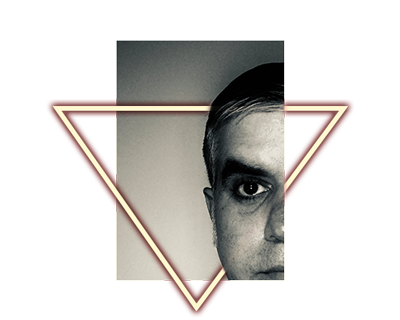
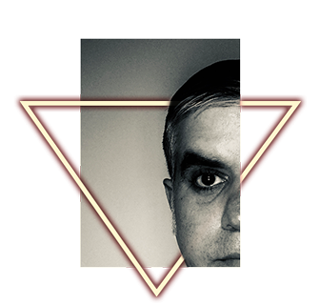
mobile pic optimization

Changed region(s): [[0.0312, 0.118, 0.9688, 0.9738]]

diff --git a/style.css b/style.css
@@ -235,6 +235,10 @@ nav {
     left: 0;  
 }
 
+#mobile-triangle1 {
+    display: none;
+}
+
 #triangle2 {
     height: 50vh;
     position: absolute;
@@ -1004,12 +1008,19 @@ form .submit:hover {
     and (max-device-width: 640px)
     and (-webkit-min-device-pixel-ratio: 2)
     and (orientation: portrait) {
-        #triangle1 {
+        #triangle1 { 
+            display: none;
+        }
+
+        #mobile-triangle1 {
+            display: inline-block;
             height: 58vh;
             position: relative;
             top: 0;
-            left: 0;  
+            left: 0; 
         }
+
+
         
         #triangle2 {
             height: 50vh;
@@ -1037,10 +1048,15 @@ form .submit:hover {
     and (-webkit-min-device-pixel-ratio: 2)
     and (orientation: landscape) {
         #triangle1 {
+            display: none;
+        }
+
+        #mobile-triangle1 {
+            display: inline-block;
             height: 58vh;
             position: relative;
             top: 0;
-            left: 0;  
+            left: 0;
         }
         
         #triangle2 {
@@ -1070,10 +1086,15 @@ and (max-device-width: 731px)
 and (-webkit-min-device-pixel-ratio: 2)
 and (orientation: portrait) {
     #triangle1 {
+        display: none; 
+    }
+
+    #mobile-triangle1 {
+        display: inline-block;
         height: 58vh;
         position: relative;
         top: 0;
-        left: 0;  
+        left: 0;
     }
 
     #triangle2 {
@@ -1106,10 +1127,15 @@ and (orientation: portrait) {
     and (-webkit-min-device-pixel-ratio: 2)
     and (orientation: landscape) {
         #triangle1 {
+            display: none;  
+        }
+
+        #mobile-triangle1 {
+            display: inline-block;
             height: 58vh;
             position: relative;
             top: 0;
-            left: 0;  
+            left: 0;
         }
         
         #triangle2 {
@@ -1138,10 +1164,15 @@ and (orientation: portrait) {
     and (-webkit-min-device-pixel-ratio: 3.5)
     and (orientation: portrait) {
     #triangle1 {
+        display: none;
+    }
+
+    #mobile-triangle1 {
+        display: inline-block;
         height: 50vh;
         position: relative;
         top: 0;
-        left: 0;  
+        left: 0;
     }
     
     #triangle2 {
@@ -1206,10 +1237,15 @@ and (orientation: portrait) {
             font-size: 8px;
         }
         #triangle1 {
+            display: none; 
+        }
+
+        #mobile-triangle1 {
+            display: inline-block;
             height: 58vh;
             position: relative;
             top: 0;
-            left: 0;  
+            left: 0;
         }
         
         #triangle2 {
@@ -1266,10 +1302,15 @@ and (orientation: portrait) {
     and (-webkit-min-device-pixel-ratio: 2)
     and (orientation: portrait) {
         #triangle1 {
+            display: none;  
+        }
+
+        #mobile-triangle1 {
+            display: inline-block;
             height: 50vh;
             position: relative;
             top: 0;
-            left: 0;  
+            left: 0;
         }
         
         #triangle2 {
@@ -1327,10 +1368,15 @@ and (orientation: portrait) {
     and (-webkit-min-device-pixel-ratio: 3)
     and (orientation: portrait) {
         #triangle1 {
+            display: none; 
+        }
+
+        #mobile-triangle1 {
+            display: inline-block;
             height: 50vh;
             position: relative;
             top: 0;
-            left: 0;  
+            left: 0;
         }
         
         #triangle2 {
@@ -1392,10 +1438,15 @@ and (orientation: portrait) {
     and (-webkit-min-device-pixel-ratio: 3)
     and (orientation: portrait) {
         #triangle1 {
+            display: none; 
+        }
+
+        #mobile-triangle1 {
+            display: inline-block;
             height: 48vh;
             position: relative;
             top: 0;
-            left: 0;  
+            left: 0;
         }
         
         #triangle2 {

diff --git a/home.html b/home.html
@@ -44,6 +44,7 @@
             <section id="triangles">
                 <div>
                     <img id="triangle1" src="./images/textured-triangle.png" alt="dark textured triangle pointing upwards with a pale yellow border">
+                    <img id="mobile-triangle1" src="./images/mobile-textured-triangle.png" alt="dark textured triangle pointing upwards with a pale yellow border">
                     <img id="triangle2" src="./images/antique-white-triangle.png" alt="transparent triangle pointing downwards with thin off white border">
                     <img id="triangle3" src="./images/antique-white-triangle.png" alt="transparent triangle pointing downwards with thin off white border">
                 </div>
